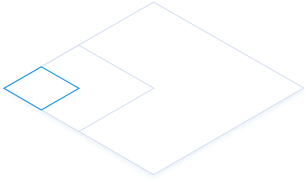
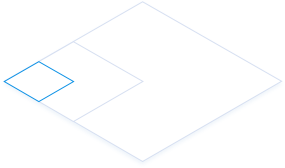
tao cleanup

diff --git a/source/stylesheets/scss/_tao.scss b/source/stylesheets/scss/_tao.scss
@@ -41,8 +41,8 @@ body.tao{
 
     .t2{
       .graphic i{
-        height: 177px;
-        @include img-retina( '../images/v2/tao-2', png, 303px, 177px);
+        height: 168px;
+        @include img-retina( '../images/v2/tao-2', png, 285px, 168px);
       }
     }
     .t3{
@@ -80,6 +80,14 @@ body.tao{
         height: 190px;
         @include img-retina( '../images/v2/tao-8', png, 283px, 190px);
       }
+    }
+  }
+}
+
+@media (min-width: 1200px) {
+  #tao-features{
+    .content{
+      margin-bottom: $xl-pad !important;
     }
   }
 }
